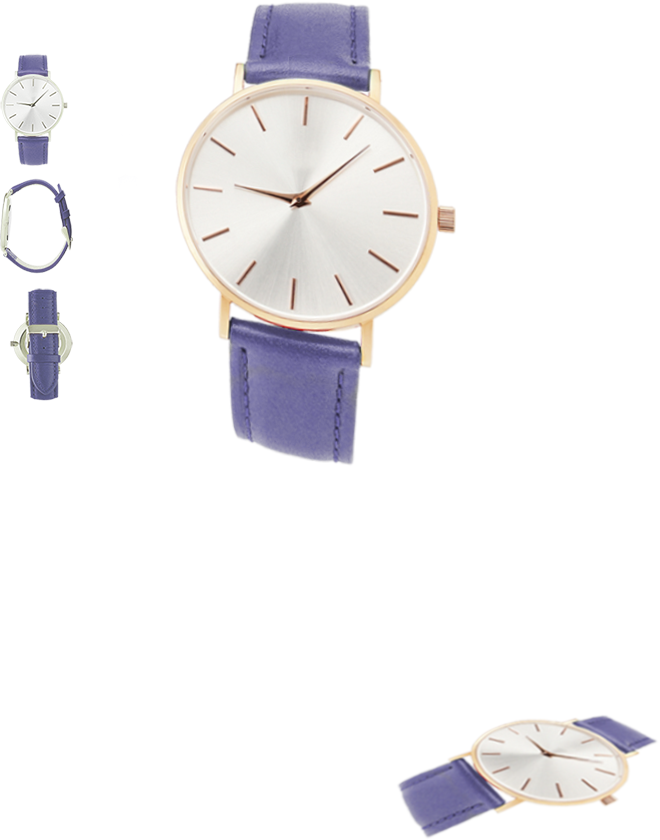
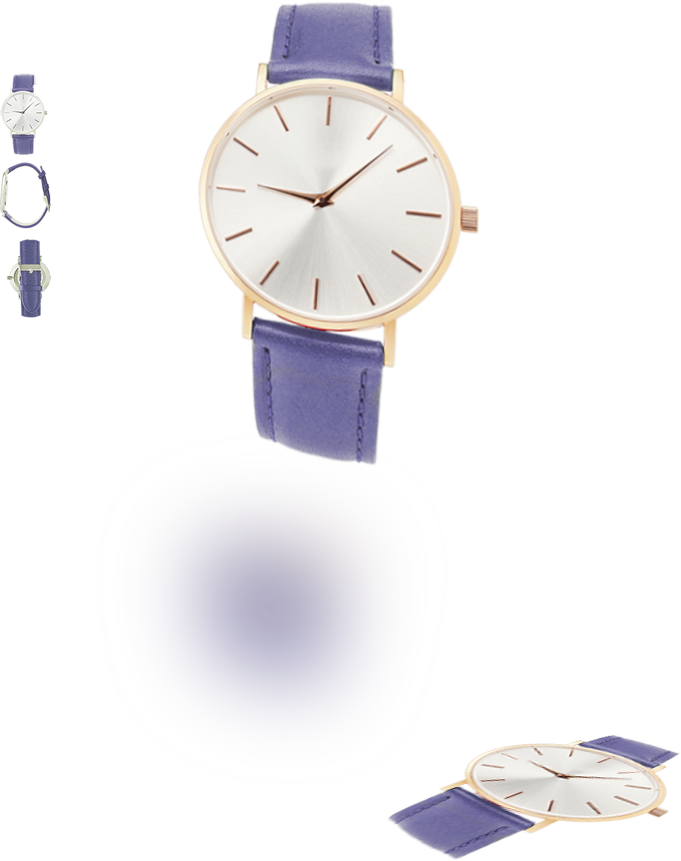
changes

diff --git a/assets/js/app.js b/assets/js/app.js
@@ -18,5 +18,19 @@ setInterval(function () {
     coloredWatches[i].style.opacity = '0';
   };
   coloredWatches[iterWatch % 5].style.opacity = '1';
+  colorChangeBGautoFun();
   iterWatch++;
 }, 2000);
+
+
+// colorChangeBG
+var colorChangeBG = document.getElementsByClassName('colorChangeBG');
+
+function colorChangeBGautoFun() {
+  for (var i = 0; i < colorChangeBG.length; i++) {
+    colorChangeBG[i].style.left = '-3vw';
+    colorChangeBG[i].style.top = '-3vw';
+  }
+  colorChangeBG[iterWatch % 5].style.top = '-2.5vw';
+  colorChangeBG[iterWatch % 5].style.left = '-2.5vw';
+}

diff --git a/assets/css/style.css b/assets/css/style.css
@@ -12,13 +12,12 @@ body{
 .coloredWatches{
   transition: all 1s ease;
   position: absolute;
-  width: 32%;
-  top: 6.5vw;
-  left: 51.3vw;
-  opacity: 1;
+  width: 34%;
+  top: 7vw;
+  left: 36.3vw;
+  opacity: 0;
 }
 .coloredWatches:nth-child(5){
-  left: calc(51.3vw - 3px);
 }
 
 .colorChangeContainer{
@@ -62,6 +61,6 @@ background: radial-gradient(ellipse at center, rgba(255,255,255,1) 0%, rgba(51,5
 }
 
 .colorChangeBG:hover{
-  top: -2.7vw;
-  left: -2.7vw;
+  top: -2.5vw !important;
+  left: -2.5vw !important;
 }
